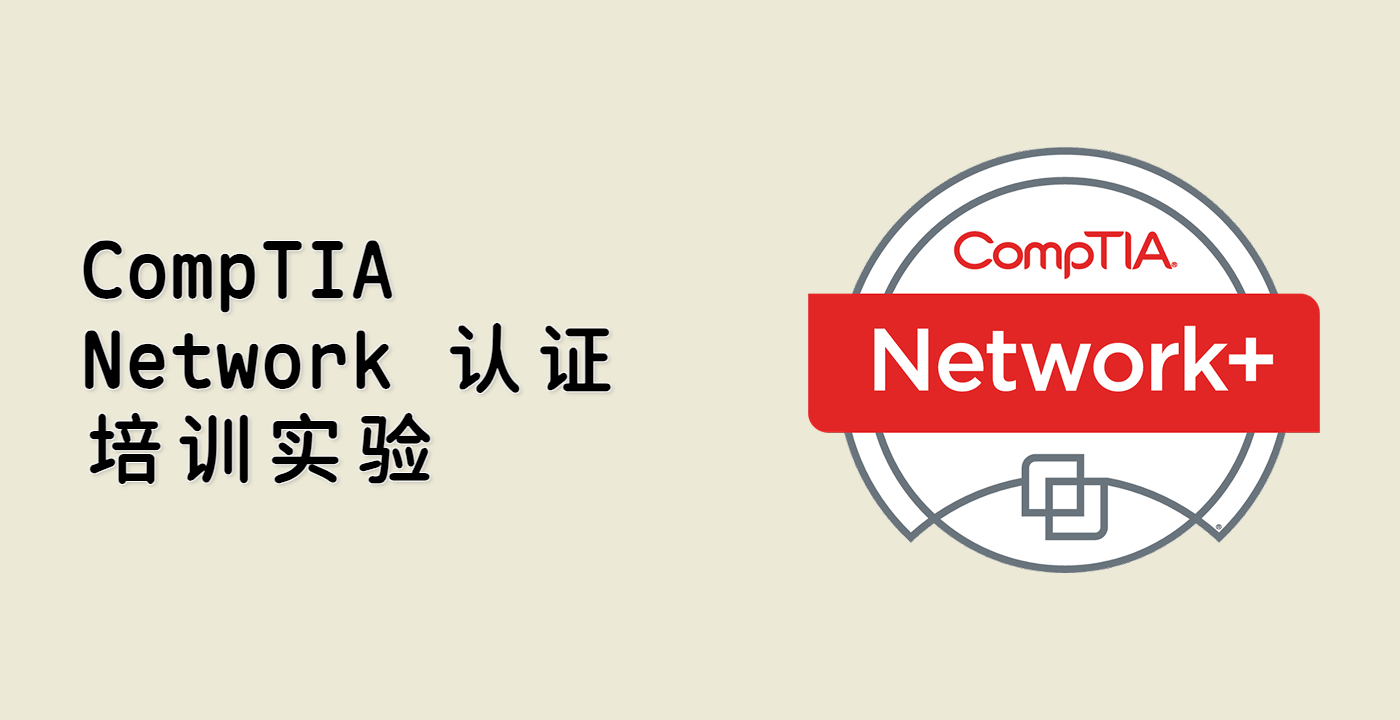
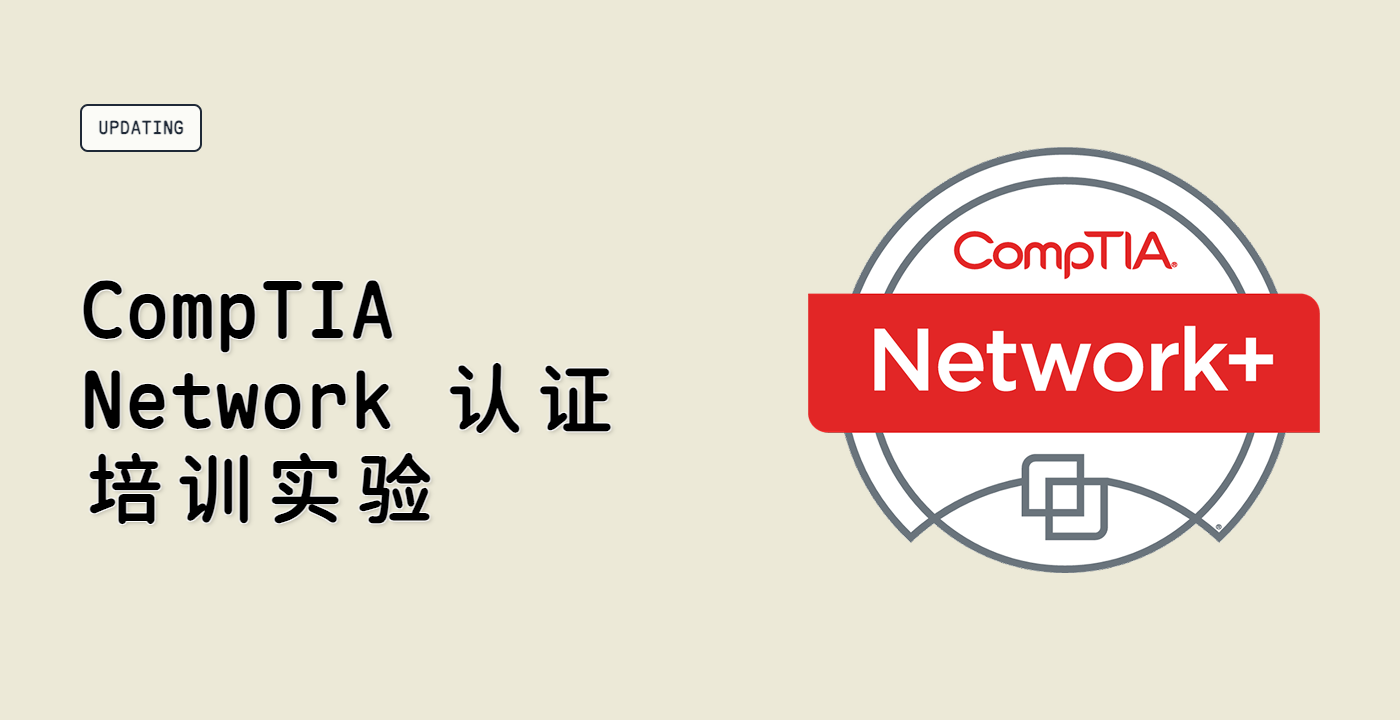
chore: enhance preview.html with updating badge and improve course cover generation script to handle course status

Changed region(s): [[0.0614, 0.3361, 0.4607, 0.7333], [0.0307, 0.1222, 0.1536, 0.2139]]

diff --git a/preview.html b/preview.html
@@ -1,113 +1,126 @@
 <!DOCTYPE html>
 <html lang="en">
-  <head>
-    <meta charset="UTF-8" />
-    <meta name="viewport" content="width=device-width, initial-scale=1.0" />
-    <link rel="stylesheet" href="https://static.zeoseven.com/zsft/442/main/result.css" />
-    <link href="https://fonts.googleapis.com/css2?family=Single+Day&display=swap" rel="stylesheet">
-    <script src="https://cdn.tailwindcss.com"></script>
-    <style>
-      * {
-        font-family: "Maple Mono NF CN", monospace;
-      }
 
-      html[lang="ko"] * {
-        font-family: "Single Day", cursive;
-      }
+<head>
+  <meta charset="UTF-8" />
+  <meta name="viewport" content="width=device-width, initial-scale=1.0" />
+  <link rel="stylesheet" href="https://static.zeoseven.com/zsft/442/main/result.css" />
+  <link href="https://fonts.googleapis.com/css2?family=Single+Day&display=swap" rel="stylesheet">
+  <script src="https://cdn.tailwindcss.com"></script>
+  <style>
+    * {
+      font-family: "Maple Mono NF CN", monospace;
+    }
 
-      body {
-        margin: 0;
-        padding: 0;
-      }
-    </style>
-  </head>
+    html[lang="ko"] * {
+      font-family: "Single Day", cursive;
+    }
 
-  <body>
-    <div class="w-[1400px] h-[720px]" id="background">
-      <div class="w-[1400px] h-[720px] flex justify-between items-center px-20">
-        <div class="w-[600px] h-[512px] flex flex-col justify-start gap-4 overflow-hidden">
-          <div
-            id="course-title"
-            class="text-black font-bold w-[600px] flex-1 flex items-center text-pretty"
-            style="
+    body {
+      margin: 0;
+      padding: 0;
+    }
+  </style>
+</head>
+
+<body>
+  <div class="w-[1400px] h-[720px] relative" id="background">
+    <div class="w-[1400px] h-[720px] flex justify-between items-center px-20">
+      <div class="w-[600px] h-[512px] flex flex-col justify-start gap-4 overflow-hidden">
+        <!-- Updating 标识矩形块 - 放在课程标题上方 -->
+        <div id="updating-badge" class="hidden mb-4">
+          <div class="inline-block px-4 py-2 rounded-lg text-gray-800 font-black text-lg border-2 border-gray-800"
+            style="background-color: rgba(255, 255, 255, 0.8);">
+            UPDATING
+          </div>
+        </div>
+
+        <div id="course-title" class="text-black font-bold w-[600px] flex-1 flex items-center text-pretty" style="
               line-height: 1.2;
               text-shadow: -1px -1px 0 white, 1px -1px 0 white, -1px 1px 0 white, 1px 1px 0 white,
                 2px 2px 4px rgba(0, 0, 0, 0.2);
-            "
-          ></div>
-        </div>
-        <div class="w-[512px] h-[512px] justify-center items-center flex">
-          <img id="course-image" class="w-[512px] h-[512px]" src="" />
-        </div>
+            "></div>
+      </div>
+      <div class="w-[512px] h-[512px] justify-center items-center flex">
+        <img id="course-image" class="w-[512px] h-[512px]" src="" />
       </div>
     </div>
+  </div>
 
-    <script>
-      // 获取 URL 参数
-      const urlParams = new URLSearchParams(window.location.search);
-      const courseType = urlParams.get("course_type") || "normal";
-      const courseName = urlParams.get("course_name") || "Linux for Noobs 基础入门";
-      const lang = urlParams.get("lang") || "en";
+  <script>
+    // 获取 URL 参数
+    const urlParams = new URLSearchParams(window.location.search);
+    const courseType = urlParams.get("course_type") || "normal";
+    const courseName = urlParams.get("course_name") || "Linux for Noobs 基础入门";
+    const lang = urlParams.get("lang") || "en";
+    const status = urlParams.get("status");
 
-      // 处理图片 URL
-      const imageUrl = urlParams.get("image_url") || "https://placehold.co/512x512";
-      const imgElement = document.getElementById("course-image");
+    // 处理状态显示
+    if (status === "updating") {
+      const updatingBadge = document.getElementById("updating-badge");
+      updatingBadge.classList.remove("hidden");
+    }
 
-      // 如果是相对路径（以 ./ 或 ../ 开头），转换为相对于当前页面的绝对路径
-      if (imageUrl.startsWith("./") || imageUrl.startsWith("../")) {
-        const basePath = window.location.href.substring(0, window.location.href.lastIndexOf("/"));
-        imgElement.src = new URL(imageUrl, basePath).href;
+    // 处理图片 URL
+    const imageUrl = urlParams.get("image_url") || "https://placehold.co/512x512";
+    const imgElement = document.getElementById("course-image");
+
+    // 如果是相对路径（以 ./ 或 ../ 开头），转换为相对于当前页面的绝对路径
+    if (imageUrl.startsWith("./") || imageUrl.startsWith("../")) {
+      const basePath = window.location.href.substring(0, window.location.href.lastIndexOf("/"));
+      imgElement.src = new URL(imageUrl, basePath).href;
+    } else {
+      imgElement.src = imageUrl;
+    }
+
+    // 设置语言
+    document.documentElement.lang = lang;
+
+    // 处理背景颜色参数
+    let backgroundColor = urlParams.get("bg_color") || "#f5b553";
+    // 如果颜色值不包含 #，则添加
+    if (backgroundColor && !backgroundColor.startsWith("#")) {
+      backgroundColor = "#" + backgroundColor;
+    }
+    // 验证颜色值是否有效
+    const isValidColor = /^#([0-9A-F]{3}){1,2}$/i.test(backgroundColor);
+    // 如果无效则使用默认颜色
+    if (!isValidColor) {
+      backgroundColor = "#f5b553";
+    }
+
+    // 设置课程标题并根据字符长度调整字体大小
+    const titleElement = document.getElementById("course-title");
+    titleElement.textContent = courseName;
+
+    // 根据文本长度动态调整字体大小
+    function adjustFontSize(element, text) {
+      const charCount = text.length;
+
+      // 定义字体大小阶梯
+      if (charCount <= 45) {
+        // 默认大小
+        element.style.fontSize = "clamp(24px, 5vw, 75px)";
+      } else if (charCount <= 70) {
+        // 稍小一点
+        element.style.fontSize = "clamp(22px, 4.5vw, 65px)";
+      } else if (charCount <= 100) {
+        // 中等
+        element.style.fontSize = "clamp(20px, 4vw, 55px)";
+      } else if (charCount <= 150) {
+        // 较小
+        element.style.fontSize = "clamp(18px, 3.5vw, 45px)";
       } else {
-        imgElement.src = imageUrl;
+        // 最小
+        element.style.fontSize = "clamp(16px, 3vw, 35px)";
       }
+    }
 
-      // 设置语言
-      document.documentElement.lang = lang;
+    // 应用字体大小调整
+    adjustFontSize(titleElement, courseName);
 
-      // 处理背景颜色参数
-      let backgroundColor = urlParams.get("bg_color") || "#f5b553";
-      // 如果颜色值不包含 #，则添加
-      if (backgroundColor && !backgroundColor.startsWith("#")) {
-        backgroundColor = "#" + backgroundColor;
-      }
-      // 验证颜色值是否有效
-      const isValidColor = /^#([0-9A-F]{3}){1,2}$/i.test(backgroundColor);
-      // 如果无效则使用默认颜色
-      if (!isValidColor) {
-        backgroundColor = "#f5b553";
-      }
+    document.getElementById("background").style.backgroundColor = backgroundColor;
+  </script>
+</body>
 
-      // 设置课程标题并根据字符长度调整字体大小
-      const titleElement = document.getElementById("course-title");
-      titleElement.textContent = courseName;
-
-      // 根据文本长度动态调整字体大小
-      function adjustFontSize(element, text) {
-        const charCount = text.length;
-
-        // 定义字体大小阶梯
-        if (charCount <= 45) {
-          // 默认大小
-          element.style.fontSize = "clamp(24px, 5vw, 75px)";
-        } else if (charCount <= 70) {
-          // 稍小一点
-          element.style.fontSize = "clamp(22px, 4.5vw, 65px)";
-        } else if (charCount <= 100) {
-          // 中等
-          element.style.fontSize = "clamp(20px, 4vw, 55px)";
-        } else if (charCount <= 150) {
-          // 较小
-          element.style.fontSize = "clamp(18px, 3.5vw, 45px)";
-        } else {
-          // 最小
-          element.style.fontSize = "clamp(16px, 3vw, 35px)";
-        }
-      }
-
-      // 应用字体大小调整
-      adjustFontSize(titleElement, courseName);
-
-      document.getElementById("background").style.backgroundColor = backgroundColor;
-    </script>
-  </body>
 </html>

diff --git a/scripts/generate_cover.py b/scripts/generate_cover.py
@@ -214,13 +214,16 @@ def save_course_config(course_alias: str, config: dict):
         logger.error(f"保存课程配置出错：{e}")
 
 
-def generate_cover(course_alias: str, lang: str, overwrite: bool = False):
+def generate_cover(
+    course_alias: str, lang: str, overwrite: bool = False, status: str = None
+):
     """生成课程封面图片
 
     参数：
         course_alias (str): 课程别名
         lang (str): 语言代码
         overwrite (bool, optional): 是否覆盖已存在的封面，默认为 False。
+        status (str, optional): 课程状态，如 'updating'，默认为 None。
 
     返回：
         bool: 成功或跳过返回 True，课程不存在返回 False
@@ -293,6 +296,12 @@ def generate_cover(course_alias: str, lang: str, overwrite: bool = False):
         "bg_color": course_config["bg_color"],
         "lang": lang,
     }
+
+    # 添加状态参数
+    if status:
+        params["status"] = status
+        logger.info(f"课程状态：{status}")
+
     logger.debug(f"生成参数：{params}")
 
     # 读取模板 HTML
@@ -327,15 +336,27 @@ def generate_cover(course_alias: str, lang: str, overwrite: bool = False):
     return True  # 成功返回 True
 
 
-@click.command()
-@click.argument("course_alias")
-@click.argument("lang")
+@click.command(no_args_is_help=True)
+@click.option(
+    "--alias", default="html-for-beginners", help="课程别名（如 html-for-beginners）"
+)
+@click.option(
+    "--lang",
+    type=click.Choice(SUPPORTED_LANGUAGES + ["all"]),
+    default="en",
+    help="课程语言代码（如 en, zh），或 'all' 表示全部支持语言",
+)
 @click.option(
     "--overwrite/--no-overwrite",
     default=False,
     help="如已存在则覆盖封面",
 )
-def main(course_alias: str, lang: str, overwrite: bool = False):
+@click.option(
+    "--status",
+    default=None,
+    help="课程状态（如 updating）",
+)
+def main(course_alias: str, lang: str, overwrite: bool = False, status: str = None):
     """
     生成课程封面图片。
 
@@ -351,12 +372,14 @@ def main(course_alias: str, lang: str, overwrite: bool = False):
             if course_info is None:
                 logger.error(f"未找到课程 {course_alias}")
                 sys.exit(1)
-            
+
             generate_cover.course_info = course_info
 
             for supported_lang in SUPPORTED_LANGUAGES:
                 try:
-                    if not generate_cover(course_alias, supported_lang, overwrite):
+                    if not generate_cover(
+                        course_alias, supported_lang, overwrite, status
+                    ):
                         success = False
                         logger.warning(f"为 {supported_lang} 生成封面失败")
                 except Exception as e:
@@ -371,7 +394,7 @@ def main(course_alias: str, lang: str, overwrite: bool = False):
                     f"不支持的语言：{lang}。支持的语言有：{', '.join(SUPPORTED_LANGUAGES)}"
                 )
                 sys.exit(1)
-            if not generate_cover(course_alias, lang, overwrite):
+            if not generate_cover(course_alias, lang, overwrite, status):
                 sys.exit(1)
 
         logger.info(f"{course_alias} 的封面生成成功")
